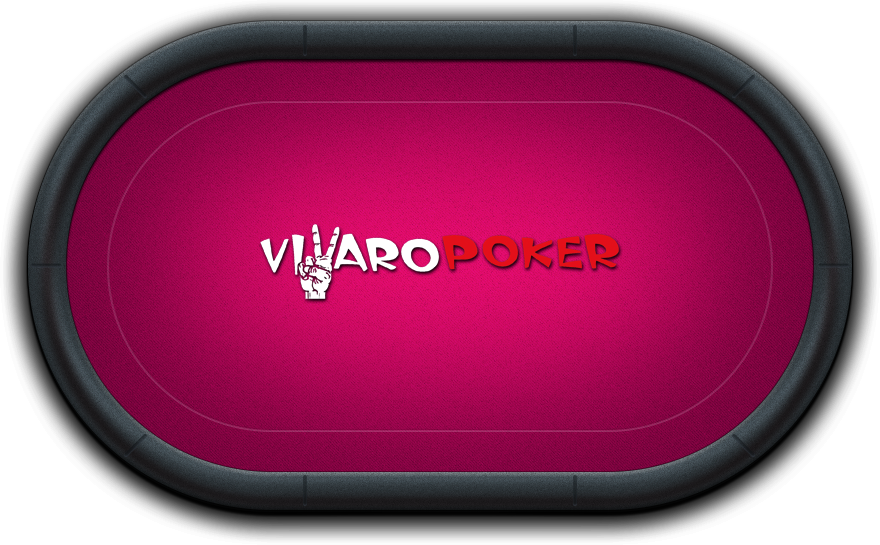
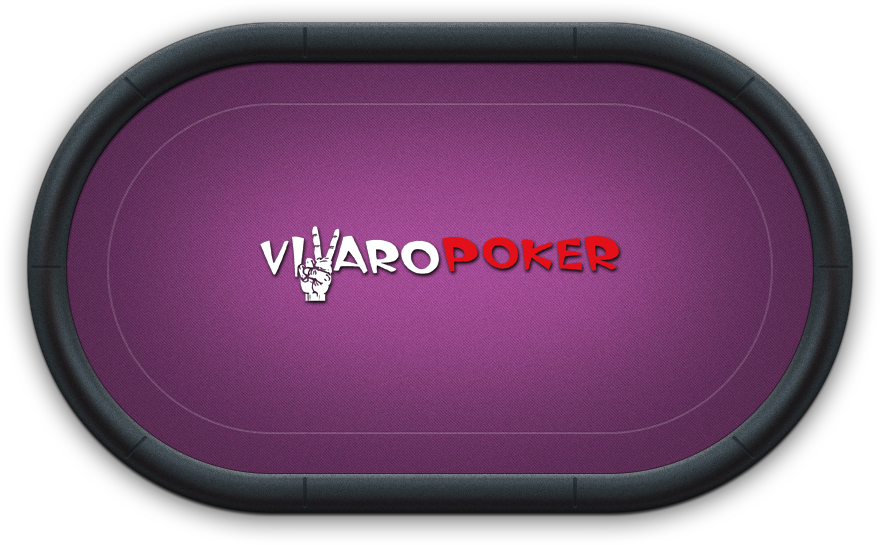
fixed js error and changed table color

diff --git a/client/web/src/main/webapp/js/base/ui/Seat.js b/client/web/src/main/webapp/js/base/ui/Seat.js
@@ -163,12 +163,9 @@ Poker.Seat = Class.extend({
            .addScale3d(1,0.01,1).addOrigin("bottom")
            .setTimed(true)
            .start(this.animationManager);
-        this.moveToPotComplete = false;
-        new Poker.TransformAnimation(amount).
-                addTranslate3d(pos.left, pos.top, 0, "px").
-                addCallback(function() {
-                    self.onMoveToPotEnd();
-                });
+    },
+    moveAmountToPot : function(view,mainPotContainer) {
+
     },
     rebuyRequested: function(rebuyCost, chipsForRebuy, timeToAct) {
         this.showTimer(timeToAct);

diff --git a/client/web/src/main/webapp/skins/vivaro/less/toolbar.less b/client/web/src/main/webapp/skins/vivaro/less/toolbar.less
@@ -100,7 +100,7 @@
 
             &.active {
                 .tab-content {
-                    .linear-gradient(top, #e50083 0%, #bd056e 100%);
+                    .linear-gradient(top, #bd5dae 0%, #a04c93 100%);
                     .box-shadow(inset 0px 0px 2px #fff);
                 }
             }

diff --git a/client/web/src/main/webapp/skins/vivaro/less/base.less b/client/web/src/main/webapp/skins/vivaro/less/base.less
@@ -1,5 +1,5 @@
 /* global colors definitions */
-@mainGreen: #e50083;
+@mainGreen: #a04c93;
 @grayText: #999;
 @buttonGrayBg:#45484c;
 @main-background-color:#09090b;

diff --git a/client/web/src/main/webapp/skins/vivaro/less/lobby.less b/client/web/src/main/webapp/skins/vivaro/less/lobby.less
@@ -102,7 +102,7 @@
         opacity: 0.4;
     }
     &:active {
-       background-color: #e50083;
+       background-color: #bd5dae;
     }
 
 }
